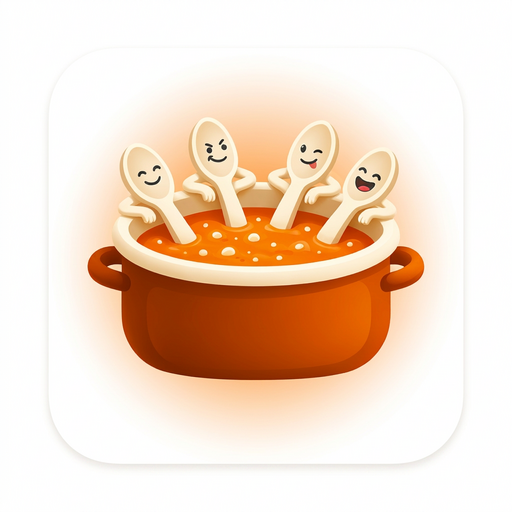
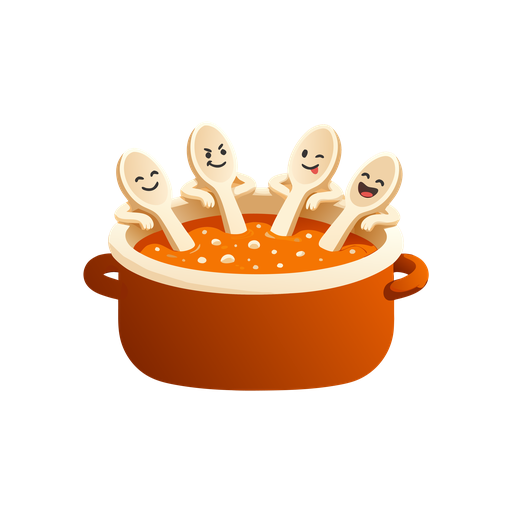
Add files via upload

diff --git a/src/components/SplashScreen.tsx b/src/components/SplashScreen.tsx
@@ -5,22 +5,24 @@
  * useSplashGate in App.tsx. splash-icon.png ist die vom Nutzer gelieferte,
  * bereits freigestellte Version (transparent, ohne Icon-Kachel/Glow). */
 
-// Position der Blubber-Punkte als Prozent-Koordinaten relativ zur Grafik
-// (in den Lücken zwischen den vier Löffelgriffen, auf Höhe der Suppenoberfläche).
+// Position der Blubber-Punkte als Prozent-Koordinaten relativ zur Grafik (in
+// den schmalen Lücken zwischen den vier Löffelgriffen, auf Höhe der
+// Suppenoberfläche) – per Pixelvermessung der aktuellen Grafik ermittelt,
+// damit die Punkte wirklich innerhalb des Topfrands bleiben statt daneben.
 const BUBBLES = [
-  { left: '13%', top: '32%', size: '2.6%', delay: '-0.2s', duration: '1.9s' },
-  { left: '32.6%', top: '30%', size: '2%', delay: '-1.1s', duration: '2.2s' },
-  { left: '50.7%', top: '33%', size: '2.9%', delay: '-0.6s', duration: '1.7s' },
-  { left: '67.3%', top: '31%', size: '2%', delay: '-1.6s', duration: '2.4s' },
-  { left: '84.6%', top: '32%', size: '2.6%', delay: '-0.9s', duration: '2s' },
+  { left: '11%', top: '23%', size: '1.5%', delay: '-0.2s', duration: '1.9s' },
+  { left: '34.6%', top: '23%', size: '2%', delay: '-1.1s', duration: '2.2s' },
+  { left: '45.1%', top: '22.5%', size: '2.4%', delay: '-0.6s', duration: '1.7s' },
+  { left: '58.7%', top: '23%', size: '2%', delay: '-1.6s', duration: '2.4s' },
+  { left: '69.8%', top: '23.5%', size: '1.6%', delay: '-0.9s', duration: '2s' },
 ]
 
 export default function SplashScreen({ exiting }: { exiting: boolean }) {
   return (
-    <div className={`fixed inset-0 z-50 flex flex-col items-center justify-center gap-5 bg-rust-solid ${exiting ? 'splash-exit' : ''}`}>
+    <div className={`fixed inset-0 z-50 flex flex-col items-center justify-center gap-5 bg-white ${exiting ? 'splash-exit' : ''}`}>
       <div
         className="splash-mark relative w-[82vw] max-w-[420px]"
-        style={{ aspectRatio: '3429 / 2875', filter: 'drop-shadow(0 18px 34px rgba(0,0,0,0.22))' }}
+        style={{ aspectRatio: '2200 / 1721', filter: 'drop-shadow(0 18px 34px rgba(0,0,0,0.22))' }}
       >
         <img src="/splash-icon.png" alt="Löffelbande" className="h-full w-full object-contain" />
         {BUBBLES.map((b, i) => (
@@ -39,7 +41,7 @@ export default function SplashScreen({ exiting }: { exiting: boolean }) {
           />
         ))}
       </div>
-      <div className="splash-text text-[20px] font-extrabold tracking-tight text-white">Löffelbande</div>
+      <div className="splash-text text-[20px] font-extrabold tracking-tight text-rust-solid">Löffelbande</div>
     </div>
   )
 }
